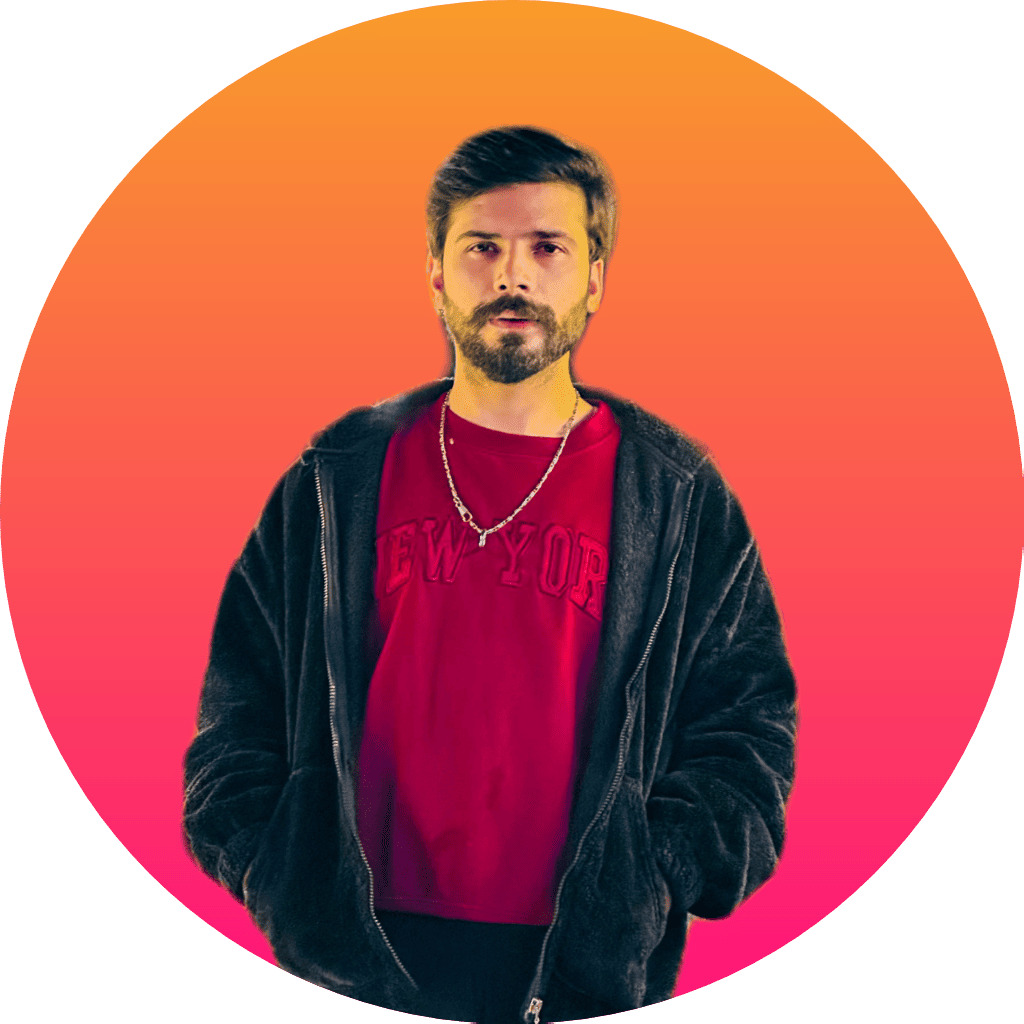
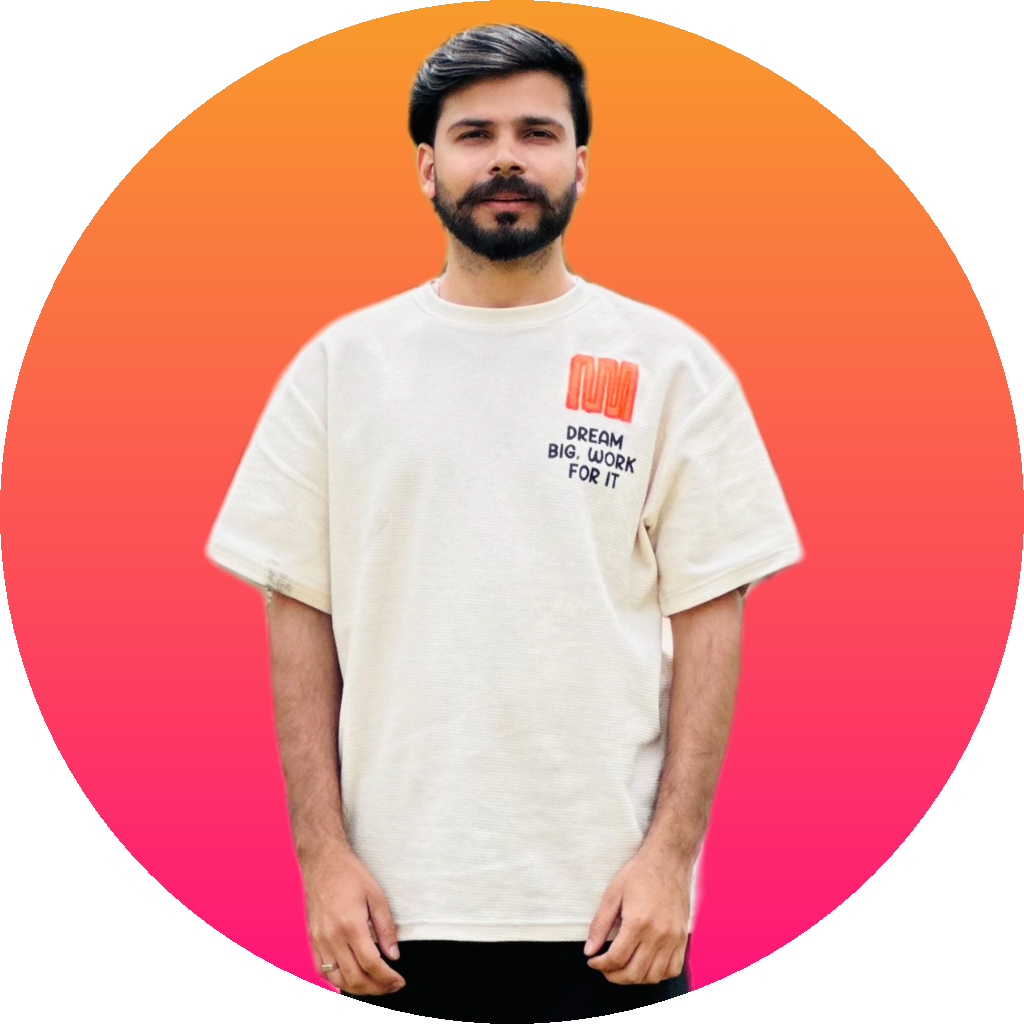
profile image or fonts update

diff --git a/app/layout.tsx b/app/layout.tsx
@@ -1,16 +1,16 @@
 import type { Metadata } from "next";
-import { Plus_Jakarta_Sans, Syne } from "next/font/google";
+import { Outfit, Space_Grotesk } from "next/font/google";
 import "./globals.css";
 
-const jakarta = Plus_Jakarta_Sans({
+const outfit = Outfit({
   subsets: ["latin"],
-  variable: "--font-jakarta",
+  variable: "--font-outfit",
   display: "swap",
 });
 
-const syne = Syne({
+const spaceGrotesk = Space_Grotesk({
   subsets: ["latin"],
-  variable: "--font-syne",
+  variable: "--font-space-grotesk",
   display: "swap",
 });
 
@@ -44,7 +44,7 @@ export default function RootLayout({
   children: React.ReactNode;
 }>) {
   return (
-    <html lang="en" className={`${jakarta.variable} ${syne.variable}`}>
+    <html lang="en" className={`${outfit.variable} ${spaceGrotesk.variable}`}>
       <body className="font-sans">{children}</body>
     </html>
   );

diff --git a/tailwind.config.ts b/tailwind.config.ts
@@ -19,9 +19,9 @@ const config: Config = {
         "muted-light": "#B8B8C8",
       },
       fontFamily: {
-        sans: ["var(--font-jakarta)", "system-ui", "sans-serif"],
-        heading: ["var(--font-syne)", "system-ui", "sans-serif"],
-        display: ["var(--font-syne)", "system-ui", "sans-serif"],
+        sans: ["var(--font-outfit)", "system-ui", "sans-serif"],
+        heading: ["var(--font-space-grotesk)", "system-ui", "sans-serif"],
+        display: ["var(--font-space-grotesk)", "system-ui", "sans-serif"],
       },
       backgroundImage: {
         "glass-gradient":

diff --git a/app/globals.css b/app/globals.css
@@ -9,7 +9,6 @@
 
   body {
     @apply bg-background text-white antialiased;
-    font-feature-settings: "cv11", "ss01";
   }
 
   h1,

diff --git a/data/projects.ts b/data/projects.ts
@@ -33,6 +33,7 @@ export const projects: Project[] = [
       "WebAuthn",
       "Framer Motion",
     ],
+    liveUrl: "https://guest.exylon.app/",
     featured: false,
   },
   {